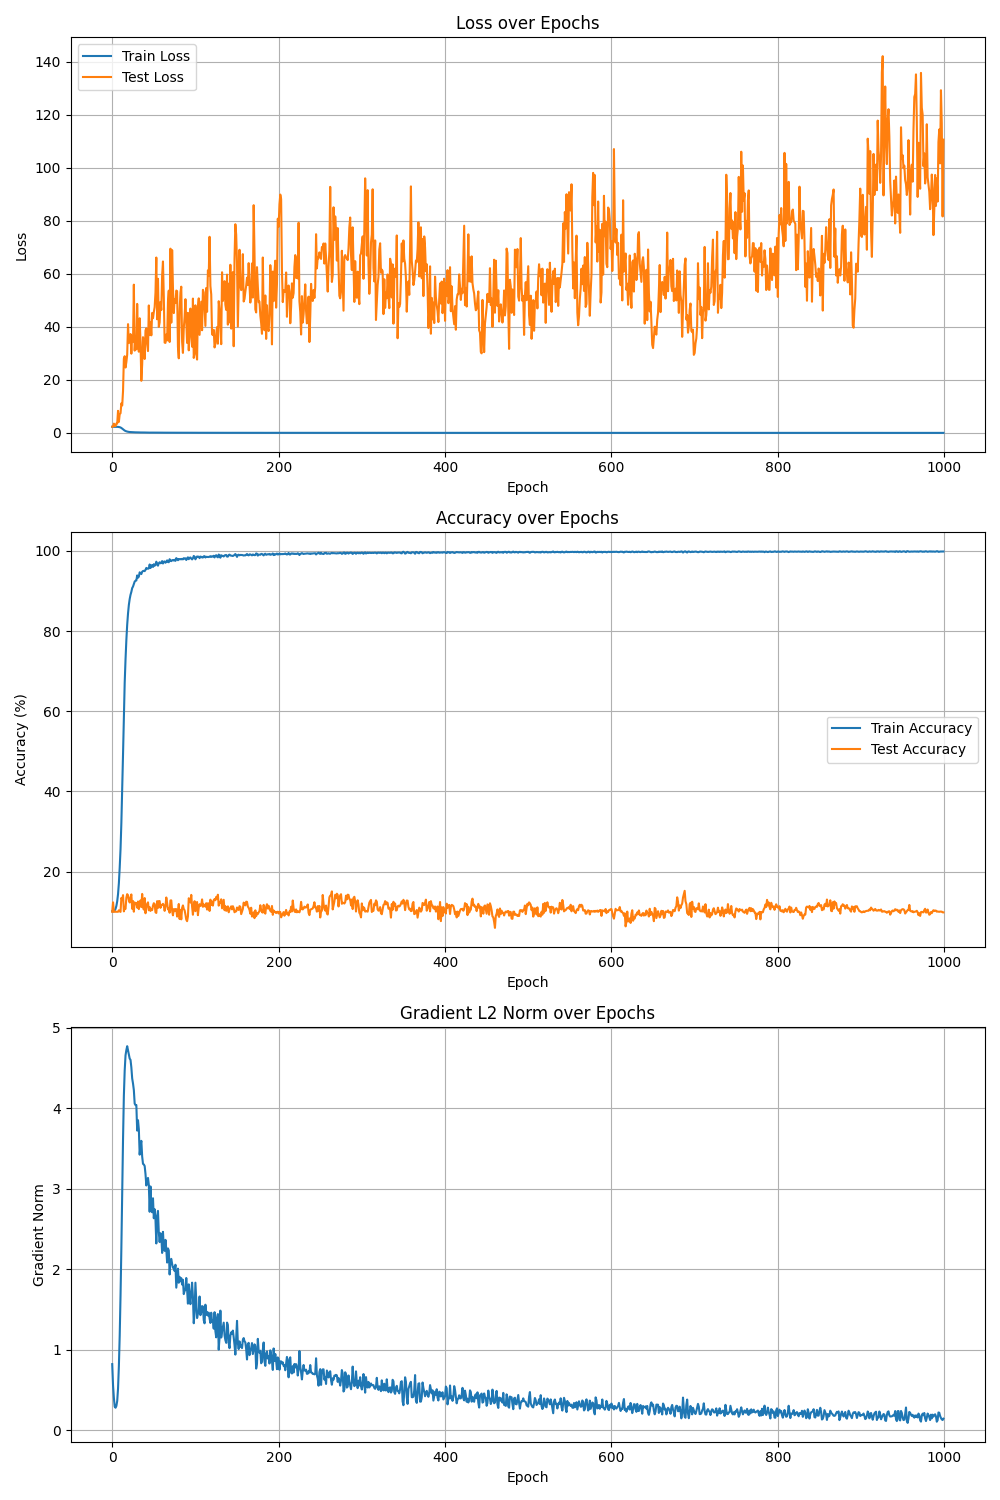
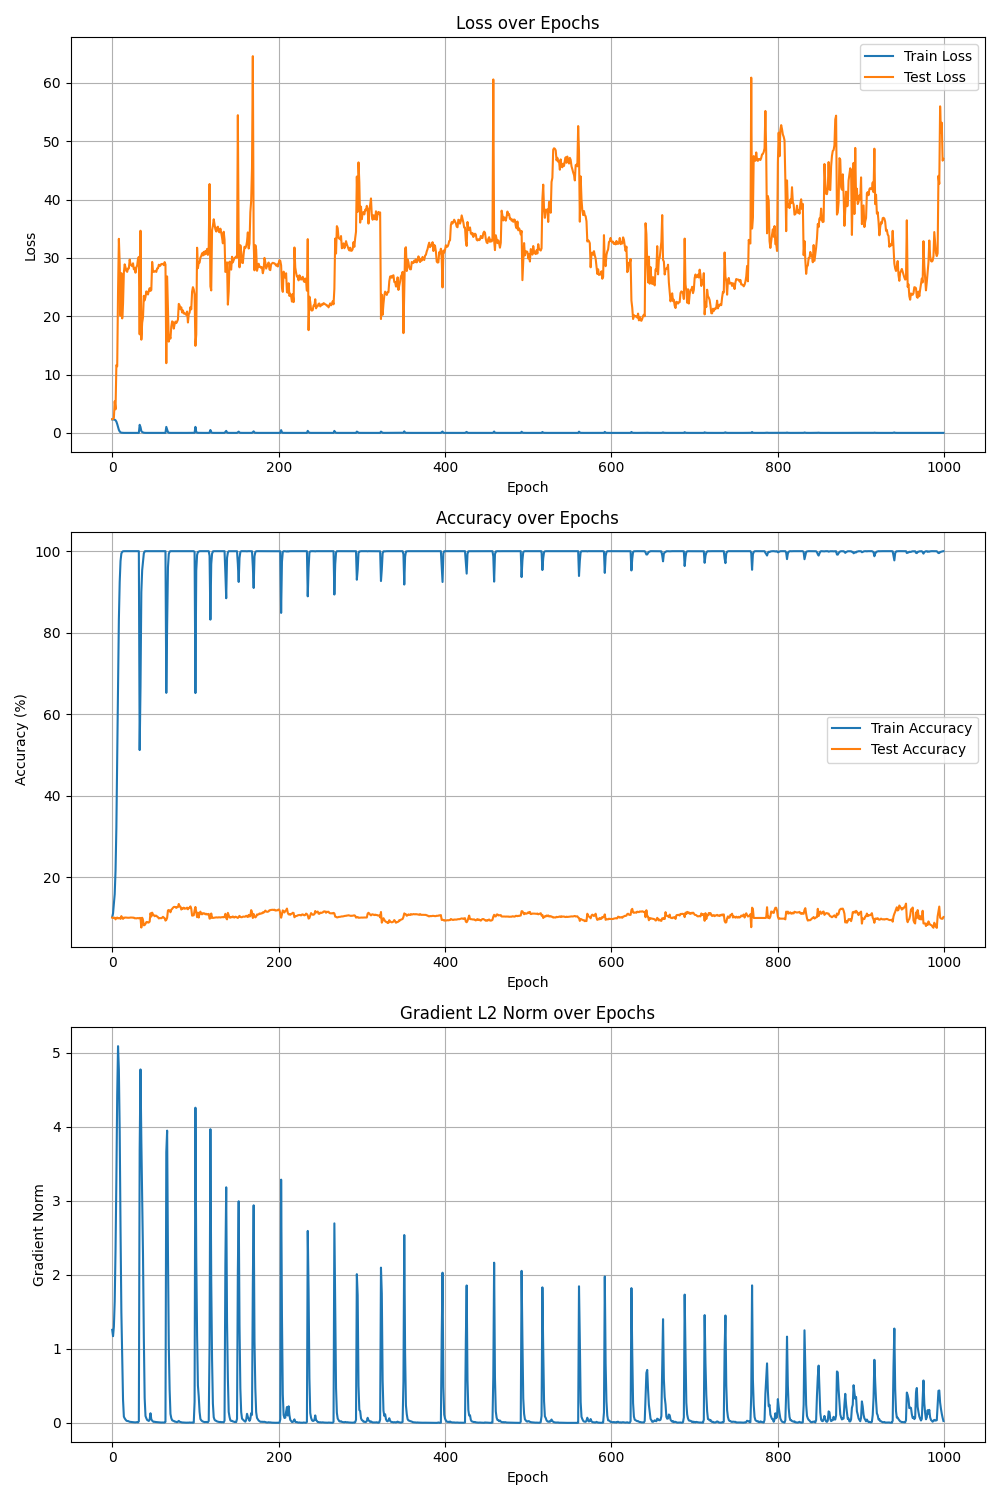
fixed random images 100k samples to 10k samples. results for fisher hessian computation. rsvd comparison for hessian eigenvalues.

diff --git a/model_interpretation/compare_rsvd_eigenvalues_hessian.py b/model_interpretation/compare_rsvd_eigenvalues_hessian.py
@@ -1,0 +1,155 @@
+"""
+Compare RSVD Eigenvalues Across Multiple Models
+
+This script loads S_rsvd.npy files (singular values from RSVD decomposition) from the
+fisher_analysis output directories and creates comparison plots of the eigenvalues
+(computed as S^2) across multiple models.
+
+Usage:
+    python compare_rsvd_eigenvalues.py --models model1 model2 [--split train/test] [--save-dir path]
+    
+Example:
+    python compare_rsvd_eigenvalues.py --models small_convnet_10k regen_inception_10k
+    python compare_rsvd_eigenvalues.py --models small_convnet_10k regen_inception_10k --split test
+"""
+
+import numpy as np
+import matplotlib.pyplot as plt
+import os
+from pathlib import Path
+import sys
+import argparse
+
+# Add the project root to the path
+current_dir = os.path.dirname(os.path.abspath(__file__))
+project_root = os.path.dirname(current_dir)
+sys.path.insert(0, project_root)
+
+
+def load_rsvd_eigenvalues(model_name, split='train'):
+    """
+    Load RSVD singular values (which correspond to Fisher eigenvalues) for a model.
+    
+    Args:
+        model_name: Name of the model
+        split: Data split ('train' or 'test')
+        
+    Returns:
+        eigenvalues: Array of eigenvalues (S^2) for the model
+        model_info: Dictionary with model metadata
+    """
+    # Base directory for Fisher analysis outputs
+    # Handle both running from model_interpretation/ and from project root
+    script_dir = Path(__file__).parent
+    base_dir = script_dir / f'outputs/fisher_analysis_hessian/{model_name}'
+    if not base_dir.exists():
+        # Try from project root
+        base_dir = Path(f'model_interpretation/outputs/fisher_analysis_hessian/{model_name}')
+    
+    if not base_dir.exists():
+        raise FileNotFoundError(f"No Fisher analysis found for model: {model_name}")
+    
+    # Try to load RSVD singular values
+    s_path = base_dir / f"{split}_{model_name}_S_rsvd.npy"
+    
+    if not s_path.exists():
+        raise FileNotFoundError(f"No RSVD singular values found for model: {model_name} at {s_path}")
+    
+    print(f"Loading RSVD singular values for {model_name} ({split} split)")
+    S = np.load(s_path)
+    
+    eigenvalues = S
+    
+    # Sort eigenvalues in descending order
+    eigenvalues = np.sort(eigenvalues)[::-1]
+    
+    # Try to load stats file to get additional information
+    stats_file = base_dir / f"{split}_{model_name}_fisher_stats_rsvd.txt"
+    model_info = {'num_params': None, 'num_components': len(eigenvalues)}
+    
+    if stats_file.exists():
+        with open(stats_file, 'r') as f:
+            content = f.read()
+            # Extract number of parameters
+            for line in content.split('\n'):
+                if 'num_parameters' in line.lower():
+                    try:
+                        model_info['num_params'] = float(line.split(':')[1].strip())
+                    except:
+                        pass
+    
+    return eigenvalues, model_info
+
+
+def compare_rsvd_eigenvalues(models, split='train', save_path=None):
+    """
+    Compare RSVD eigenvalues between multiple models - simple plot only.
+    """
+    plt.figure(figsize=(10, 6))
+    colors = ['blue', 'red', 'green', 'orange', 'purple']
+    
+    # Load and plot each model
+    for i, model_name in enumerate(models):
+        try:
+            eigenvalues, _ = load_rsvd_eigenvalues(model_name, split)
+            indices = range(1, len(eigenvalues) + 1)
+            plt.semilogy(indices, eigenvalues, 
+                        linewidth=2, label=model_name)
+        except Exception as e:
+            print(f"Error loading {model_name}: {e}")
+    
+    plt.xlabel('Eigenvalue Index')
+    plt.ylabel('Eigenvalue (log scale)')
+    plt.title('RSVD Eigenvalue Spectrum Comparison')
+    plt.grid(True, alpha=0.3)
+    plt.legend()
+    plt.tight_layout()
+    
+    # Generate default save path if not provided
+    if save_path is None:
+        # Create rsvd_comparison directory in fisher_analysis
+        script_dir = Path(__file__).parent
+        comparison_dir = script_dir / 'outputs/fisher_analysis_hessian/rsvd_comparison'
+        if not comparison_dir.exists():
+            # Try from project root
+            comparison_dir = Path('model_interpretation/outputs/fisher_analysis_hessian/rsvd_comparison')
+        
+        comparison_dir.mkdir(parents=True, exist_ok=True)
+        
+        # Create filename with all model names
+        model_names_str = '_vs_'.join(models)
+        filename = f"{model_names_str}_{split}_comparison.png"
+        save_path = comparison_dir / filename
+    
+    # Save the plot
+    plt.savefig(save_path, dpi=300, bbox_inches='tight')
+    print(f"Saved plot to: {save_path}")
+    
+    plt.close()
+
+
+def main():
+    """
+    Main function to run the RSVD eigenvalue comparison.
+    """
+    parser = argparse.ArgumentParser(description='Compare RSVD eigenvalues across multiple models')
+    parser.add_argument('--models', nargs='+', 
+                        default=['regen_inception_10k', 'regen_inception_10k_random_labels', 'regen_inception_10k_random_images'],
+                        help='List of model names to compare (default: regen_inception_10k variants)')
+    parser.add_argument('--split', choices=['train', 'test'], default='train',
+                        help='Data split to use (default: train)')
+    parser.add_argument('--save-path', type=str, default=None,
+                        help='Path to save plot (default: auto-generated in fisher_analysis/rsvd_comparison/)')
+    
+    args = parser.parse_args()
+    
+    # Run the comparison
+    compare_rsvd_eigenvalues(
+        models=args.models,
+        split=args.split,
+        save_path=args.save_path
+    )
+
+
+if __name__ == "__main__":
+    main()

diff --git a/trainers/specific_trainers/regen_inception_10k_random_images.py b/trainers/specific_trainers/regen_inception_10k_random_images.py
@@ -30,7 +30,7 @@ data_loader = CIFAR10DataLoader(
     random_labels=False,  # Enable random labels
     random_images=True,
     random_seed=42,
-    num_train_samples=100000
+    num_train_samples=10000
 )
 
 
